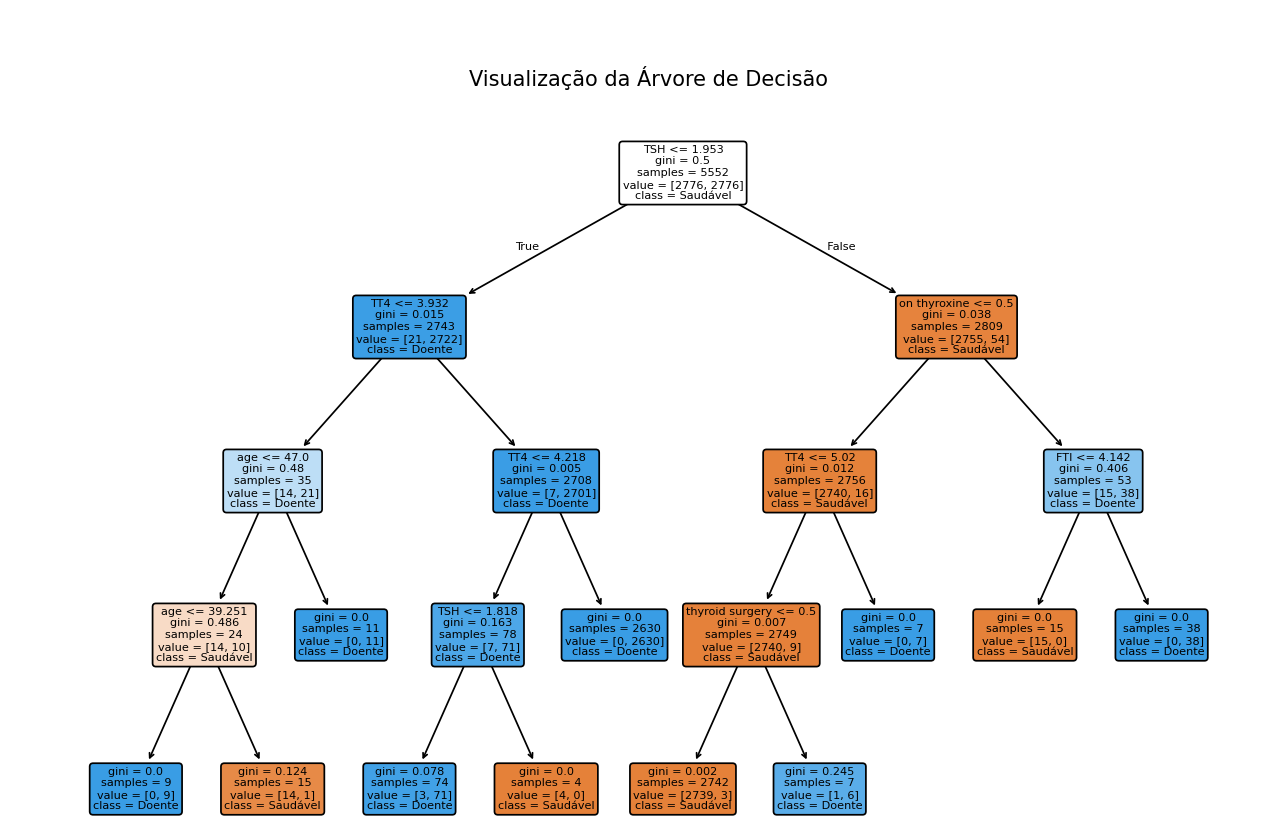
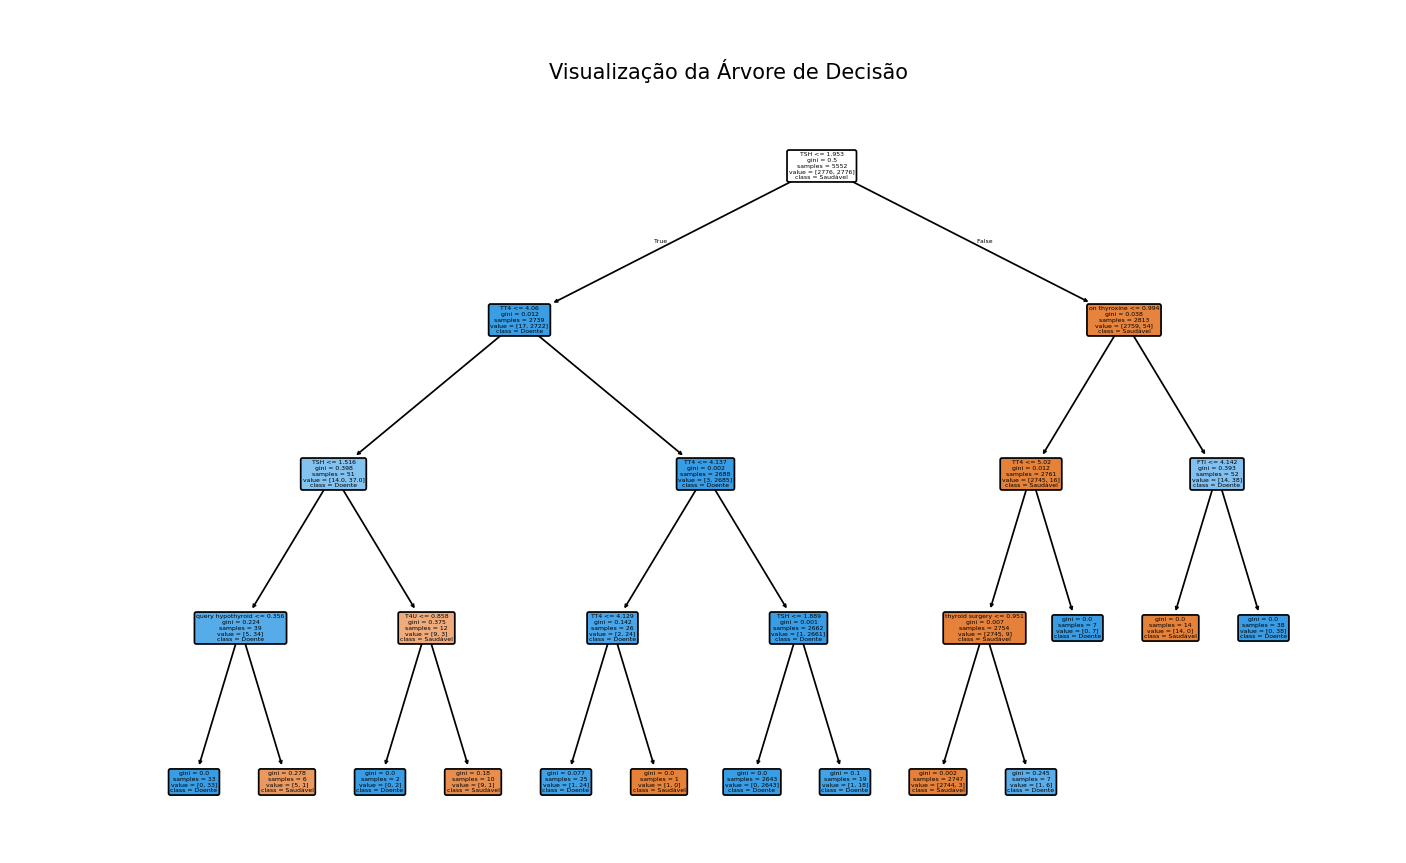
modelos organizados em pipeline para evitar leakage

diff --git a/hypothyroid/hypothyroid.py b/hypothyroid/hypothyroid.py
@@ -3,6 +3,7 @@ from sklearn.tree import plot_tree, DecisionTreeClassifier
 from sklearn.metrics import accuracy_score, classification_report
 from sklearn.model_selection import cross_val_score, GridSearchCV, RandomizedSearchCV
 from xgboost import XGBClassifier
+from imblearn.pipeline import Pipeline
 
 '''
 o objetivo desse modelo é diagnosticar e classificar pacientes
@@ -21,7 +22,7 @@ data.drop_columns(['TBG', 'TSH measured', 'T3 measured', 'TT4 measured', 'T4U me
 #'referral source' estava causando ruído, dado admnistrativo
 data.df.dropna(subset=['age'], inplace=True) #só 1 linha sem idade, remover ela
 #poucos faltantes ~5%, knn imputer estava causando data leakage(substituia faltantes aprendendo valores da base toda), decidi usar simple imputer
-data.imputar_simples(['TSH', 'T3', 'TT4', 'T4U', 'FTI'])
+#data.imputar_simples(['TSH', 'T3', 'TT4', 'T4U', 'FTI']) #etapa colocada no pipeline para evitar influencia de teste em treino
 
 data.print_unique_values()
 #remapeando booleanas
@@ -49,11 +50,12 @@ data.heatmap() #binaryClass têm forte correlação negativa com tsh(-0.69)
 data.separar_base('binaryClass')
 verificar_base(data.X_train, data.X_test, data.y_train, data.y_test, 'binaryClass')
 #base muito desbalanceada, doenças da tireoide são raras (apenas 6.75% na base de teste), treinar o modelo a não ignorar a minoria com oversampling
-data.smote()
-
+#smote agora no pipeline para evitar leakage
 #decision tree como modelo baseline
 '''na primeira tentativa teve muito sobreajuste por isso profundidade limitada'''
-arvore_decisao = DecisionTreeClassifier(criterion='gini', random_state=0, max_depth=4)
+arvore_decisao = Pipeline([('imputer', SimpleImputer(strategy='median')),
+                           ('smote', SMOTE(random_state=0)),
+                           ('model', DecisionTreeClassifier(random_state=0, max_depth=4))])
 arvore_decisao.fit(data.X_train, data.y_train)
 
 pred_treino = arvore_decisao.predict(data.X_train)
@@ -61,40 +63,43 @@ acuracia_treino = accuracy_score(data.y_train, pred_treino)
 print(classification_report(data.y_train, pred_treino))
 print(f"\nAcurácia do modelo base nos dados de treino: {acuracia_treino * 100:.2f}%\n")
 
+#ordem mudada + só dados de treino para evitar avaliação influenciada pelo feedback de teste
+#validação cruzada
+scores = cross_val_score(arvore_decisao, data.X_train, data.y_train.values.ravel(), cv=5)
+print(f"Acurácias do modelo base obtidas em cada uma das 5 rodadas: {np.round(scores * 100, 2)}%")
+print(f"Acurácia média: {scores.mean() * 100:.2f}%")
+#modelo generaliza
+
 pred_teste = arvore_decisao.predict(data.X_test)
 acuracia_teste = accuracy_score(data.y_test, pred_teste)
 print(classification_report(data.y_test, pred_teste))
 print(f"\nAcurácia do modelo base nos dados de teste: {acuracia_teste * 100:.2f}%\n")
 
-#validação cruzada
-X_total = pd.concat([data.X_train, data.X_test])
-y_total = pd.concat([data.y_train, data.y_test])
-scores = cross_val_score(arvore_decisao, X_total, y_total.values.ravel(), cv=5)
-print(f"Acurácias do modelo base obtidas em cada uma das 5 rodadas: {np.round(scores * 100, 2)}%")
-print(f"Acurácia média: {scores.mean() * 100:.2f}%")
-#modelo generaliza
-
 class_names = ['Saudável', 'Doente']
 plt.figure(figsize=(12, 8))
-plot_tree(arvore_decisao, filled=True, rounded=True,
+plot_tree(arvore_decisao.named_steps['model'], filled=True, rounded=True,
           feature_names=data.X_train.columns, class_names=class_names)
 plt.title("Visualização da Árvore de Decisão")
 plt.show()
 
 conf_matrix(data.y_test, pred_teste, class_names)
-profundidade = arvore_decisao.get_depth()
+profundidade = arvore_decisao.named_steps['model'].get_depth()
 print(f"A profundidade da árvore é: {profundidade}")
 
-data.feature_importance(arvore_decisao) #só 6 features não nulas, ~96% do resultado depende do exame de tsh
-features_reduzidas = ['TSH', 'on thyroxine', 'TT4', 'FTI', 'thyroid surgery', 'query hypothyroid']
+data.feature_importance(arvore_decisao.named_steps['model']) #só 7 features não nulas, ~96% do resultado depende do exame de tsh
+features_reduzidas = ['TSH', 'on thyroxine', 'TT4', 'FTI', 'thyroid surgery', 'query hypothyroid', 'T4U']
 X_treino_red = data.X_train[features_reduzidas]
 X_teste_red = data.X_test[features_reduzidas]
 
-parametros_grid = {'criterion': ['gini', 'entropy'], 'max_depth': [2, 3, 4],
-                   'min_samples_split': [2, 5, 10], 'min_samples_leaf': [1, 5, 10]}
+parametros_grid = {'model__criterion': ['gini', 'entropy'], 'model__max_depth': [3, 4, 5],
+                   'model__min_samples_split': [2, 5, 10], 'model__min_samples_leaf': [1, 5, 10]}
 
-grid_search = GridSearchCV(DecisionTreeClassifier(random_state=0),
-                           param_grid=parametros_grid, cv=5, scoring='accuracy', n_jobs=-1)
+arvore_decisao_red = Pipeline([('imputer', SimpleImputer(strategy='median')),
+                               ('smote', SMOTE(random_state=0)),
+                               ('model', DecisionTreeClassifier(random_state=0))])
+
+grid_search = GridSearchCV(arvore_decisao_red, param_grid=parametros_grid,
+                           cv=5, scoring='accuracy', n_jobs=-1)
 
 grid_search.fit(X_treino_red, data.y_train)
 melhor_arvore_red = grid_search.best_estimator_
@@ -106,22 +111,25 @@ print(f"Acurácia do modelo base reduzido nos dados de teste: {acuracia_red_test
 print(classification_report(data.y_test, pred_red))
 
 plt.figure(figsize=(12, 8))
-plot_tree(melhor_arvore_red, filled=True, rounded=True,
+plot_tree(melhor_arvore_red.named_steps['model'], filled=True, rounded=True,
           feature_names=features_reduzidas, class_names=class_names)
 plt.title("Árvore de Decisão apenas com as features principais")
 plt.show()
 conf_matrix(data.y_test, pred_red, class_names)
-#taxa de positivos verdadeiros e falsos verdadeiros igual mais com 15 features a menos, acurácia também
-'''modelo provou matematicamente que usar apenas 6 features chave gera o mesmo resultado que 21 variáveis,
+#métricas praticamente iguais, mas com 14 features a menos
+'''modelo provou matematicamente que usar apenas 7 features chave gera o mesmo resultado que 21 variáveis,
 o que significa, redução de custos laboratoriais, menos formulários e um diagnóstico mais rápido'''
 
 #modelo xgboost para classificação binária, vale o aumento de complexidade?
-parametros_random = {'learning_rate': [0.01, 0.05, 0.1, 0.2], 'max_depth': [3, 4, 5, 6],
-                     'n_estimators': [50, 100, 200, 300], 'subsample': [0.8, 0.9, 1.0], 'colsample_bytree': [0.8, 0.9, 1.0]}
+parametros_random = {'model__learning_rate': [0.01, 0.05, 0.1, 0.2], 'model__max_depth': [3, 4, 5, 6],
+                     'model__n_estimators': [50, 100, 200, 300], 'model__subsample': [0.8, 0.9, 1.0], 'model__colsample_bytree': [0.8, 0.9, 1.0]}
 
-random_search = RandomizedSearchCV(XGBClassifier(random_state=0),
-                                       param_distributions=parametros_random, n_iter=20, cv=5,
-                                       scoring='accuracy', n_jobs=-1,  random_state=42)
+xgb = Pipeline([('imputer', SimpleImputer(strategy='median')),
+                ('smote', SMOTE(random_state=0)),
+                ('model', XGBClassifier(random_state=0))])
+
+random_search = RandomizedSearchCV(xgb, param_distributions=parametros_random, n_iter=20,
+                                   cv=5, scoring='accuracy', n_jobs=-1,  random_state=42)
 
 random_search.fit(X_treino_red, data.y_train)
 modelo_xgb = random_search.best_estimator_
@@ -137,15 +145,16 @@ plt.figure(figsize=(12, 8))
 sns.histplot(df_resultados['Probabilidade Doença'], bins=30)
 plt.title('Distribuição de probabilidades de doença')
 plt.show()
-'''modelo atinge ~99.9% de certeza nos diagnósticos positivos
+'''modelo atinge ~96% de certeza nos diagnósticos positivos
 se a chance cair na faixa de 40% a 60%, o sistema poderia acionar uma revisão médica manual'''
-
 
 acuracia = accuracy_score(data.y_test, previsoes)
 print(f"\nAcurácia do Modelo XGBoost: {acuracia * 100:.2f}%\n")
 print(classification_report(data.y_test, previsoes))
 conf_matrix(data.y_test, previsoes, class_names)
 
-data.feature_importance(modelo_xgb, colunas=X_teste_red.columns) #TSH tem ~80% de influência sozinho
-'''árvore venceu na acurácia por uma margem mínima (99.47% vs 99.34%), mas concentra 95% da decisão só no TSH 
-XGBoost reduziu a dependência para ~80% e passou a considerar mais o histórico do paciente ('on thyroxine' com 12.5%)'''
+data.feature_importance(modelo_xgb.named_steps['model'], colunas=X_teste_red.columns) #TSH tem ~89% de influência sozinho
+'''mesmo sem 14 variáveis de ruído, os modelos mantiveram ótimo desempenho,
+árvore venceu na acurácia por uma margem mínima, mas concentra 95% da decisão só no TSH 
+XGBoost reduziu a dependência para ~89% e passou a considerar mais o histórico do paciente ('on thyroxine' subiu para 4.84% e o exame 'FTI' para 2.67%)
+com a proteção do Pipeline contra Data Leakage, confiança de xgboost estabilizou em ~96% para casos positivos (contra 99.9% da versão anterior), mais realista'''
